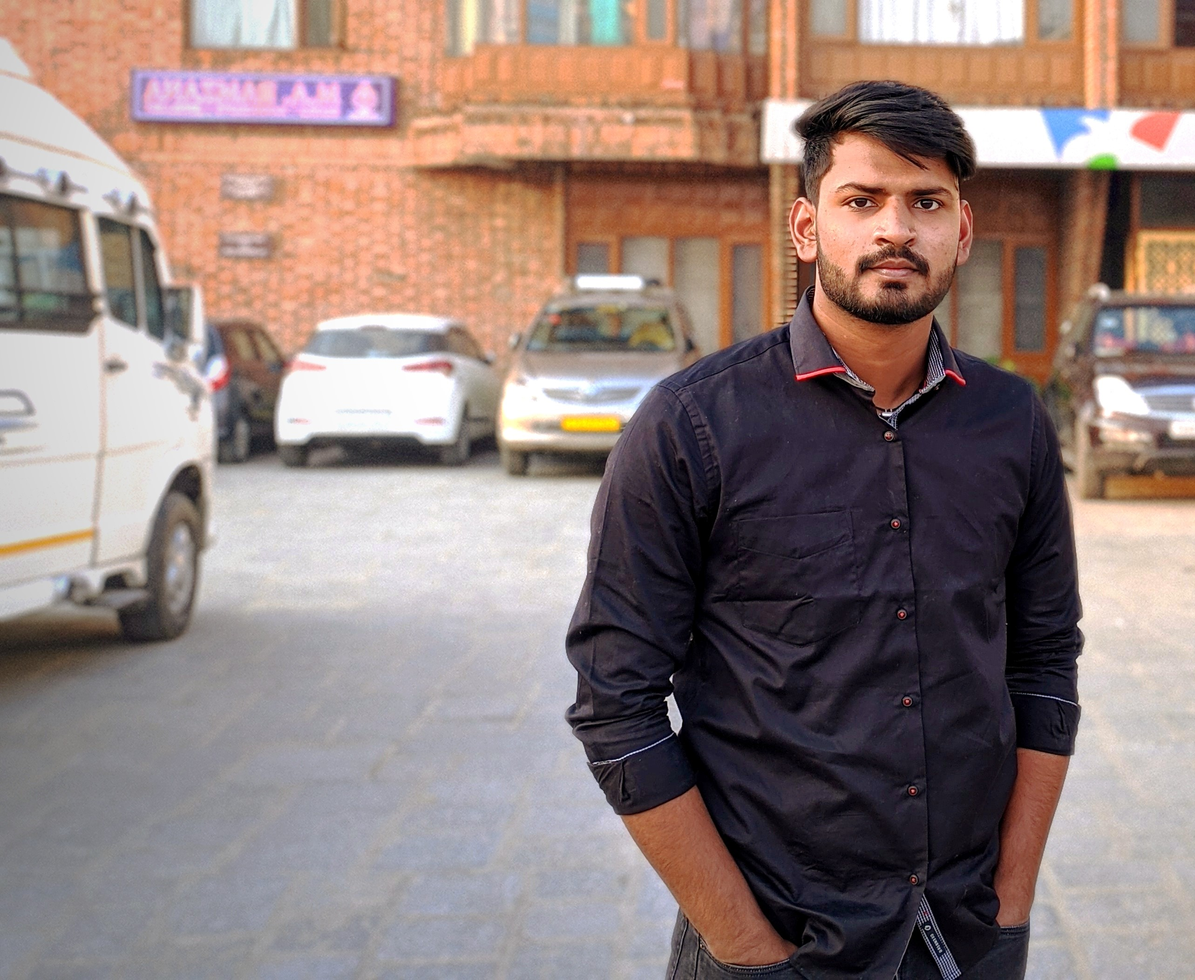
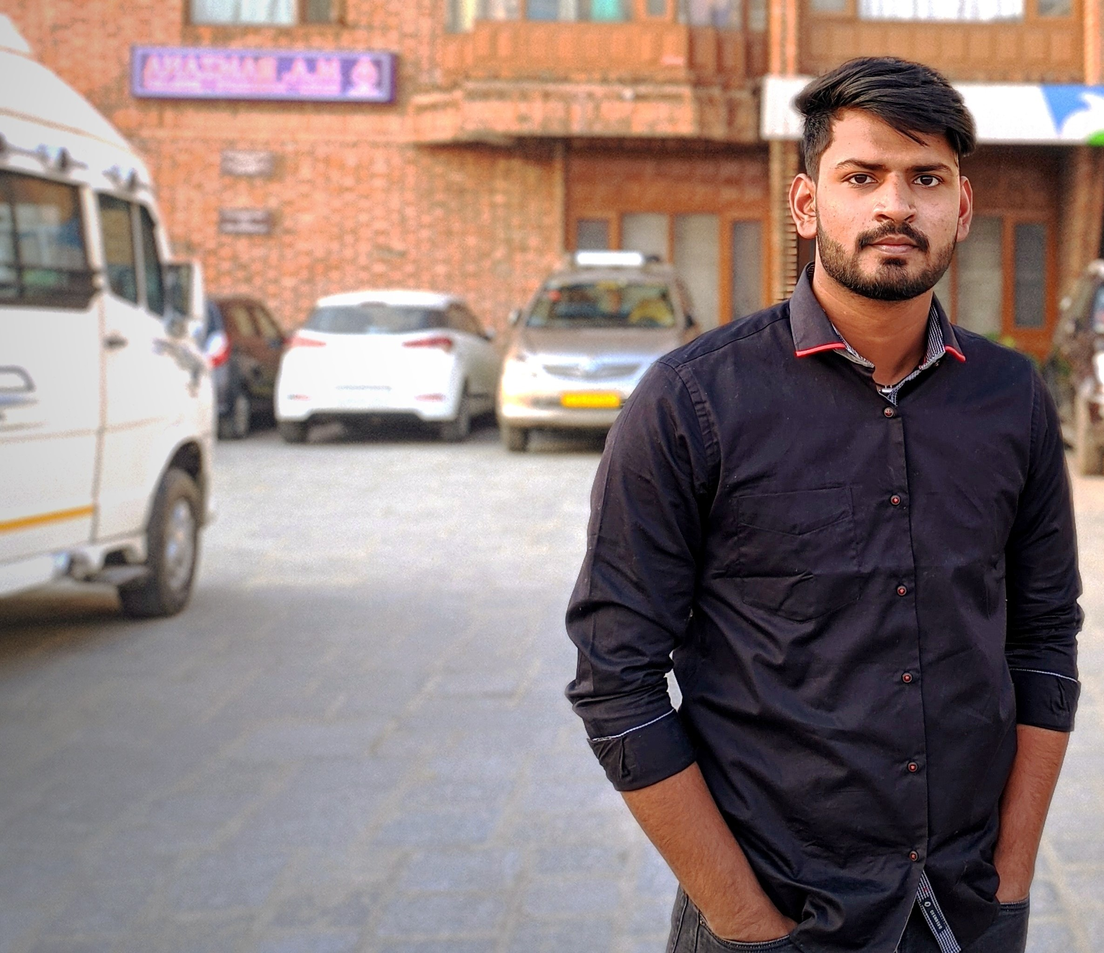
u

diff --git a/assets/css/style.css b/assets/css/style.css
@@ -242,7 +242,7 @@ margin: 10px auto;
 #hero {
   width: 100%;
   height: 100vh;
-  background: url("../img/IMG_20231030_003636.jpg") top center;
+  background-image: url("../img/IMG_20231030_003636.jpg");
   background-size: cover;
 }
 
